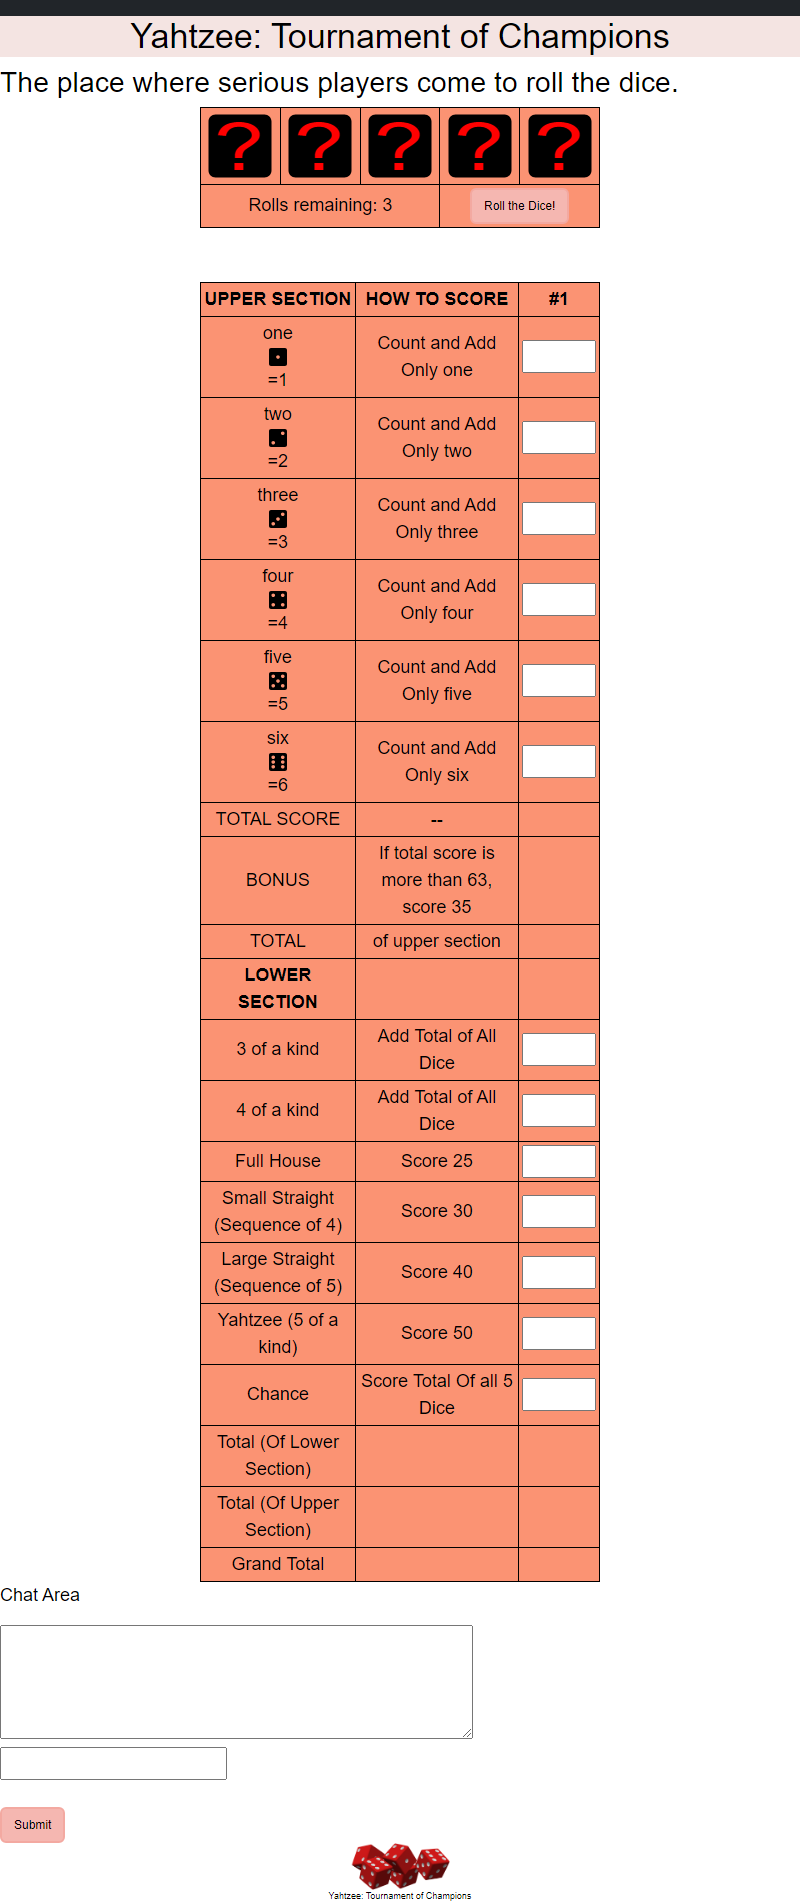
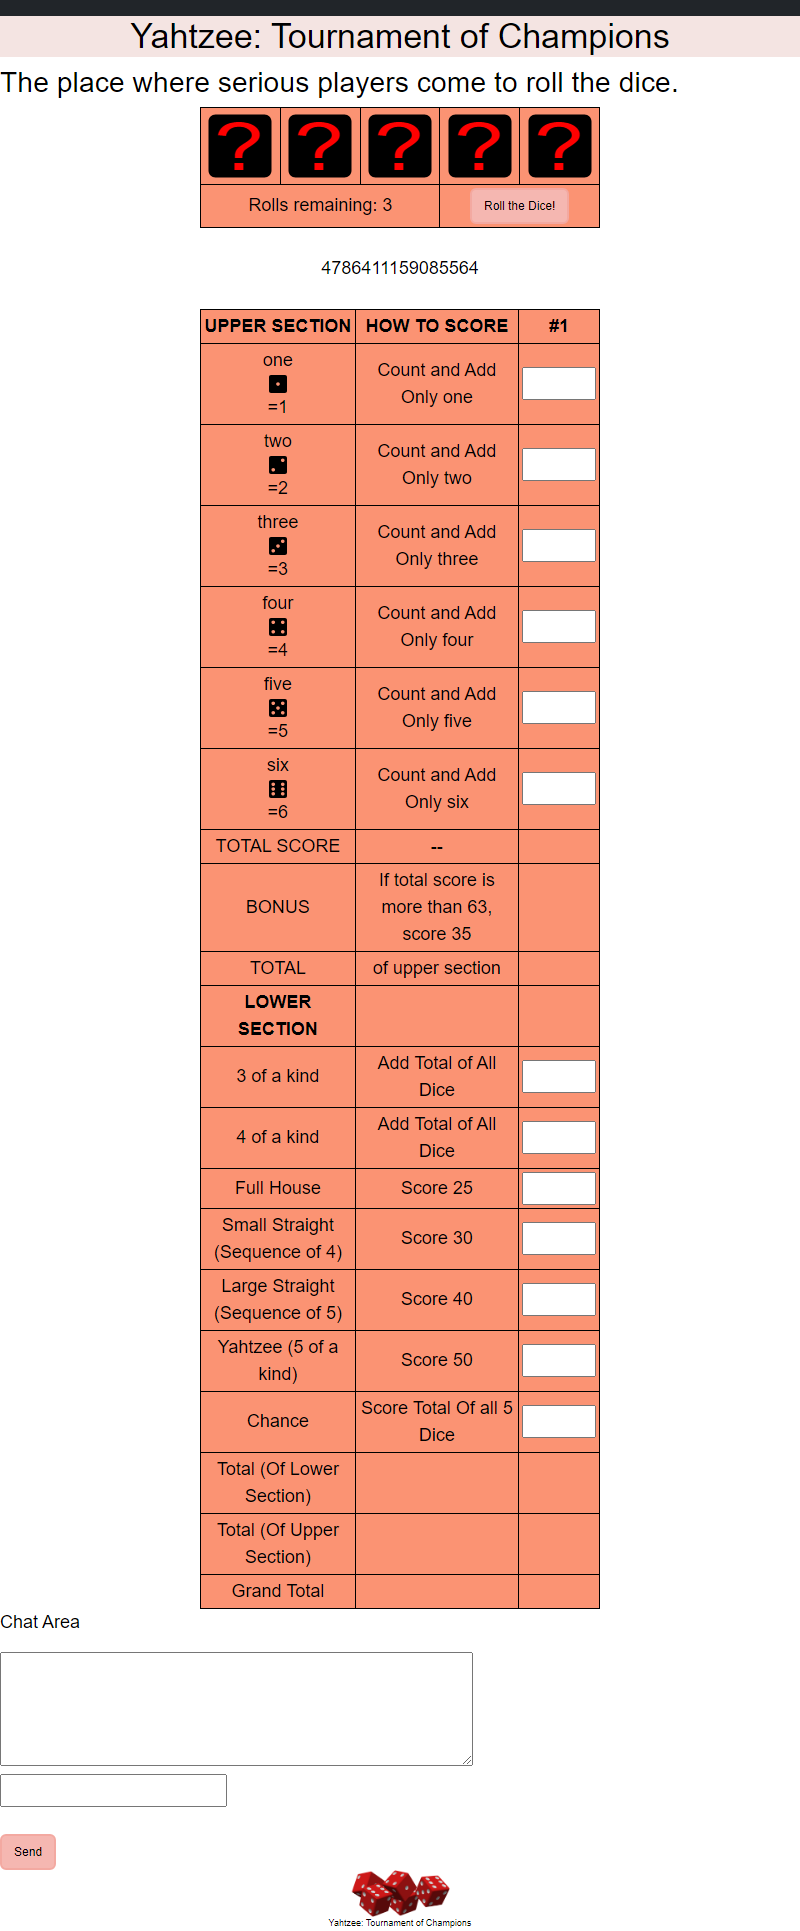
i dont even know...

diff --git a/webapp_server/public/js/UI.js b/webapp_server/public/js/UI.js
@@ -28,10 +28,10 @@ for (let category of category_elements){
 let score_elements = Array.from(document.getElementsByClassName("score"));
 let scorecard = new Scorecard(category_elements, score_elements, dice);
 window.scorecard = scorecard;
+console.log("What to put into the scorecard: ",JSON.parse(document.getElementById("scorecard_values").dataset.score))
 scorecard.load_scorecard(JSON.parse(document.getElementById("scorecard_values").dataset.score));
 window.scorecard = scorecard;
-
-
+dice.reset();
 //---------Event Handlers-------//
 function reserve_die_handler(event){
     console.log("Trying to reserve "+event.target.id);
@@ -62,12 +62,14 @@ async function enter_score_handler(event){
     if (scorecard.is_valid_score(event.target.id.slice(0,-6), parseInt(event.target.value))) {
         display_feedback("Correctly entered the score", "good");
         document.getElementById(event.target.id).disabled = true
-        dice.reset();
+        
         let url_routes = window.location.href.split("/");
         let username = url_routes[url_routes.length-1];
-        let scorecard_id = document.getElementById(username).innerHTML;
+        console.log(username)
+        console.log("This is the value of the thing ", document.getElementById("scorecard_id").dataset.score)
+        let scorecard_id = document.getElementById("scorecard_id").dataset.score;
         let data = window.scorecard.to_object();
-        
+        dice.reset();
         const res = await fetch("/scorecard/"+scorecard_id, {
             method: "POST",
             headers: {
@@ -75,7 +77,7 @@ async function enter_score_handler(event){
             },
             body: JSON.stringify(data),
         });
-        console.log(await res.json());
+        console.log("WOOWOJFLIKJSDJFKLJSLDKJFLKSJDKLFJLKSDJ:FLKJSDLKJF:LK ", await res.json());
         
     }
     else

diff --git a/webapp_server/server.js b/webapp_server/server.js
@@ -476,16 +476,19 @@ app.get('/games/:gameName/:username', async function(request, response) {
 
   for (let i = 0; i < scorecards.length; i++) {
     if (scorecards[i]["user_id"] == user_id){
-      resDeletedScorecard = await fetch('http://127.0.0.1:5000/scorecards/' +scorecards[i].id);  
-      goodScorecard = await resDeletedScorecard.text();
+      res = await fetch('http://127.0.0.1:5000/scorecards/' +scorecards[i].id);  
+      goodScorecard = await res.text();
+      goodScorecard = JSON.parse(goodScorecard);
     }
   }
-
+  console.log("scorecard ", goodScorecard)
   response.status(200);
   response.setHeader('Content-Type', 'text/html')
+
   response.render("game/game",{
     feedback:"",
     gameName:gameName,
+    scorecard_id: goodScorecard["id"],  
     scorecard: goodScorecard,
     username:username
   });

diff --git a/webapp_server/public/js/Dice.js b/webapp_server/public/js/Dice.js
@@ -78,6 +78,9 @@ class Dice{
      * <br> Uses this.#setDice to update dice
     */
     reset(){
+        console.log("SHEESH ",this.rolls_remaining_element.innerHTML);
+        this.rolls_remaining_element.innerHTML = 3
+        console.log("SHEESH 2",this.rolls_remaining_element.innerHTML);
         this.set([...Array(5)].map(e=>~~(0)),3)
     }
 

diff --git a/db_server/models/ScorecardsModelTests.py b/db_server/models/ScorecardsModelTests.py
@@ -78,7 +78,7 @@ users_data = [
 ]
 
 blank_card={
-            "dice_rolls":0,
+            "dice_rolls":3,
             "upper":{
                 "ones":-1,
                 "twos":-1,
